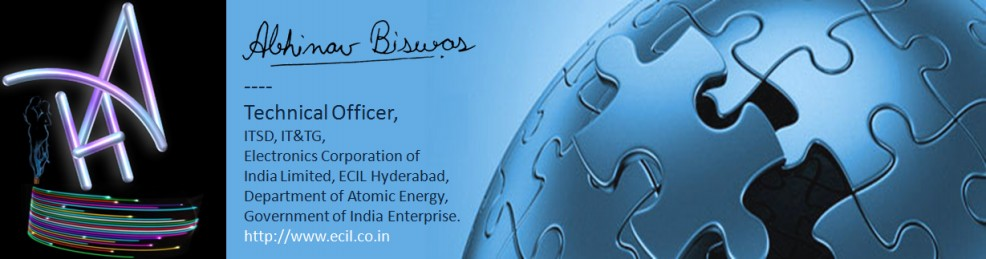
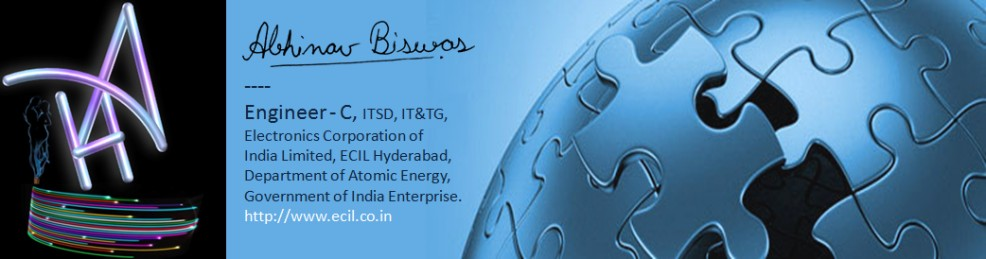
Minor Changes Done...

diff --git a/index.html b/index.html
@@ -182,9 +182,12 @@
             
             	<div class="bti">
                 	<div class="featured-images"><img src="images/responsive-icon.jpg" width="45" height="45" alt="Responsive" style="padding:5px"></div>
-                	<div class="featured-titles">Current Work Profile</div>
+                	<div class="featured-titles">Personality Profile</div>
                 </div>
+                <!--
                 <div class="featured-text"><b>Network Administrator,</b><br>Responsible for maintaining <br>Windows 2008 Server Infrastructure with Cisco Switches & Windows 7 Workstations in an Active Directory Domain for ECIL Mumbai branch.</div>
+                -->
+                <div class="featured-text">Eat-Play Coder, Apps Developer, Networks Designer, Decision Manager, Startup Advisor, Gadget Lover, Blogger, Gamer & Singer who aspires for the Sharpest Knife in the Drawer..</div>
             
             </div>
             
@@ -202,11 +205,10 @@
                 </div>
                 <div class="featured-text">
                 C++, Java 5.0, Python(Beginner)<br>
-                HTML 5, JavaScript, Servlets & JSP<br>
-                Oracle 10g, IBM DB2 9.1 <br>
-                Eclipse 3.6 Helios, Oracle VM VirtualBox<br>
-                Google App Engine, Google Web Toolkit<br>
-                Facebook Social Graph API
+                HTML 5, JavaScript, Node.js<br>
+                Ruby on Rails, Android Apps<br>
+                Google App Engine, Heroku, AWS EC2<br>
+                Facebook Social Graph API, Git DVCS
 </div>
             
             </div>
@@ -223,7 +225,8 @@
                     <div class="featured-images"><img src="images/testimonial_icon.png" width="54" height="53" alt="Responsive"></div>
                     <a href="http://abhinav-downloads.appspot.com/CV.pdf" target="_blank" ><div class="featured-titles">Curriculum Vitae</div></a>
                 </div>
-                <div class="featured-text">"If I had more time, I would have written the summary of my resume here."<br> 
+                <div class="featured-text">"If I had more time, I would have written the summary of my resume here."<br><br> 
+                Keep an eye, soon it will be here.
                 <br></div>
             
             </div>

diff --git a/timeline.html b/timeline.html
@@ -189,7 +189,7 @@ $(document).ready(function(){
                         	
                             <div class="accordiontitle"><a href="#">2013</a></div>
                             <div class="accordioncontent">
-                            	ECIL GET Training Period ended, Promoted to next Rank<br>
+                            	ECIL GET Training Period ended, Promoted to Engineer-C<br>
                                 <div id="p">September 1, 2013</div><br>
                             	<br>Moved to Hyderabad, Andhra Pradesh, India<br>
 								<div id="p">August 31, 2013</div><br>
